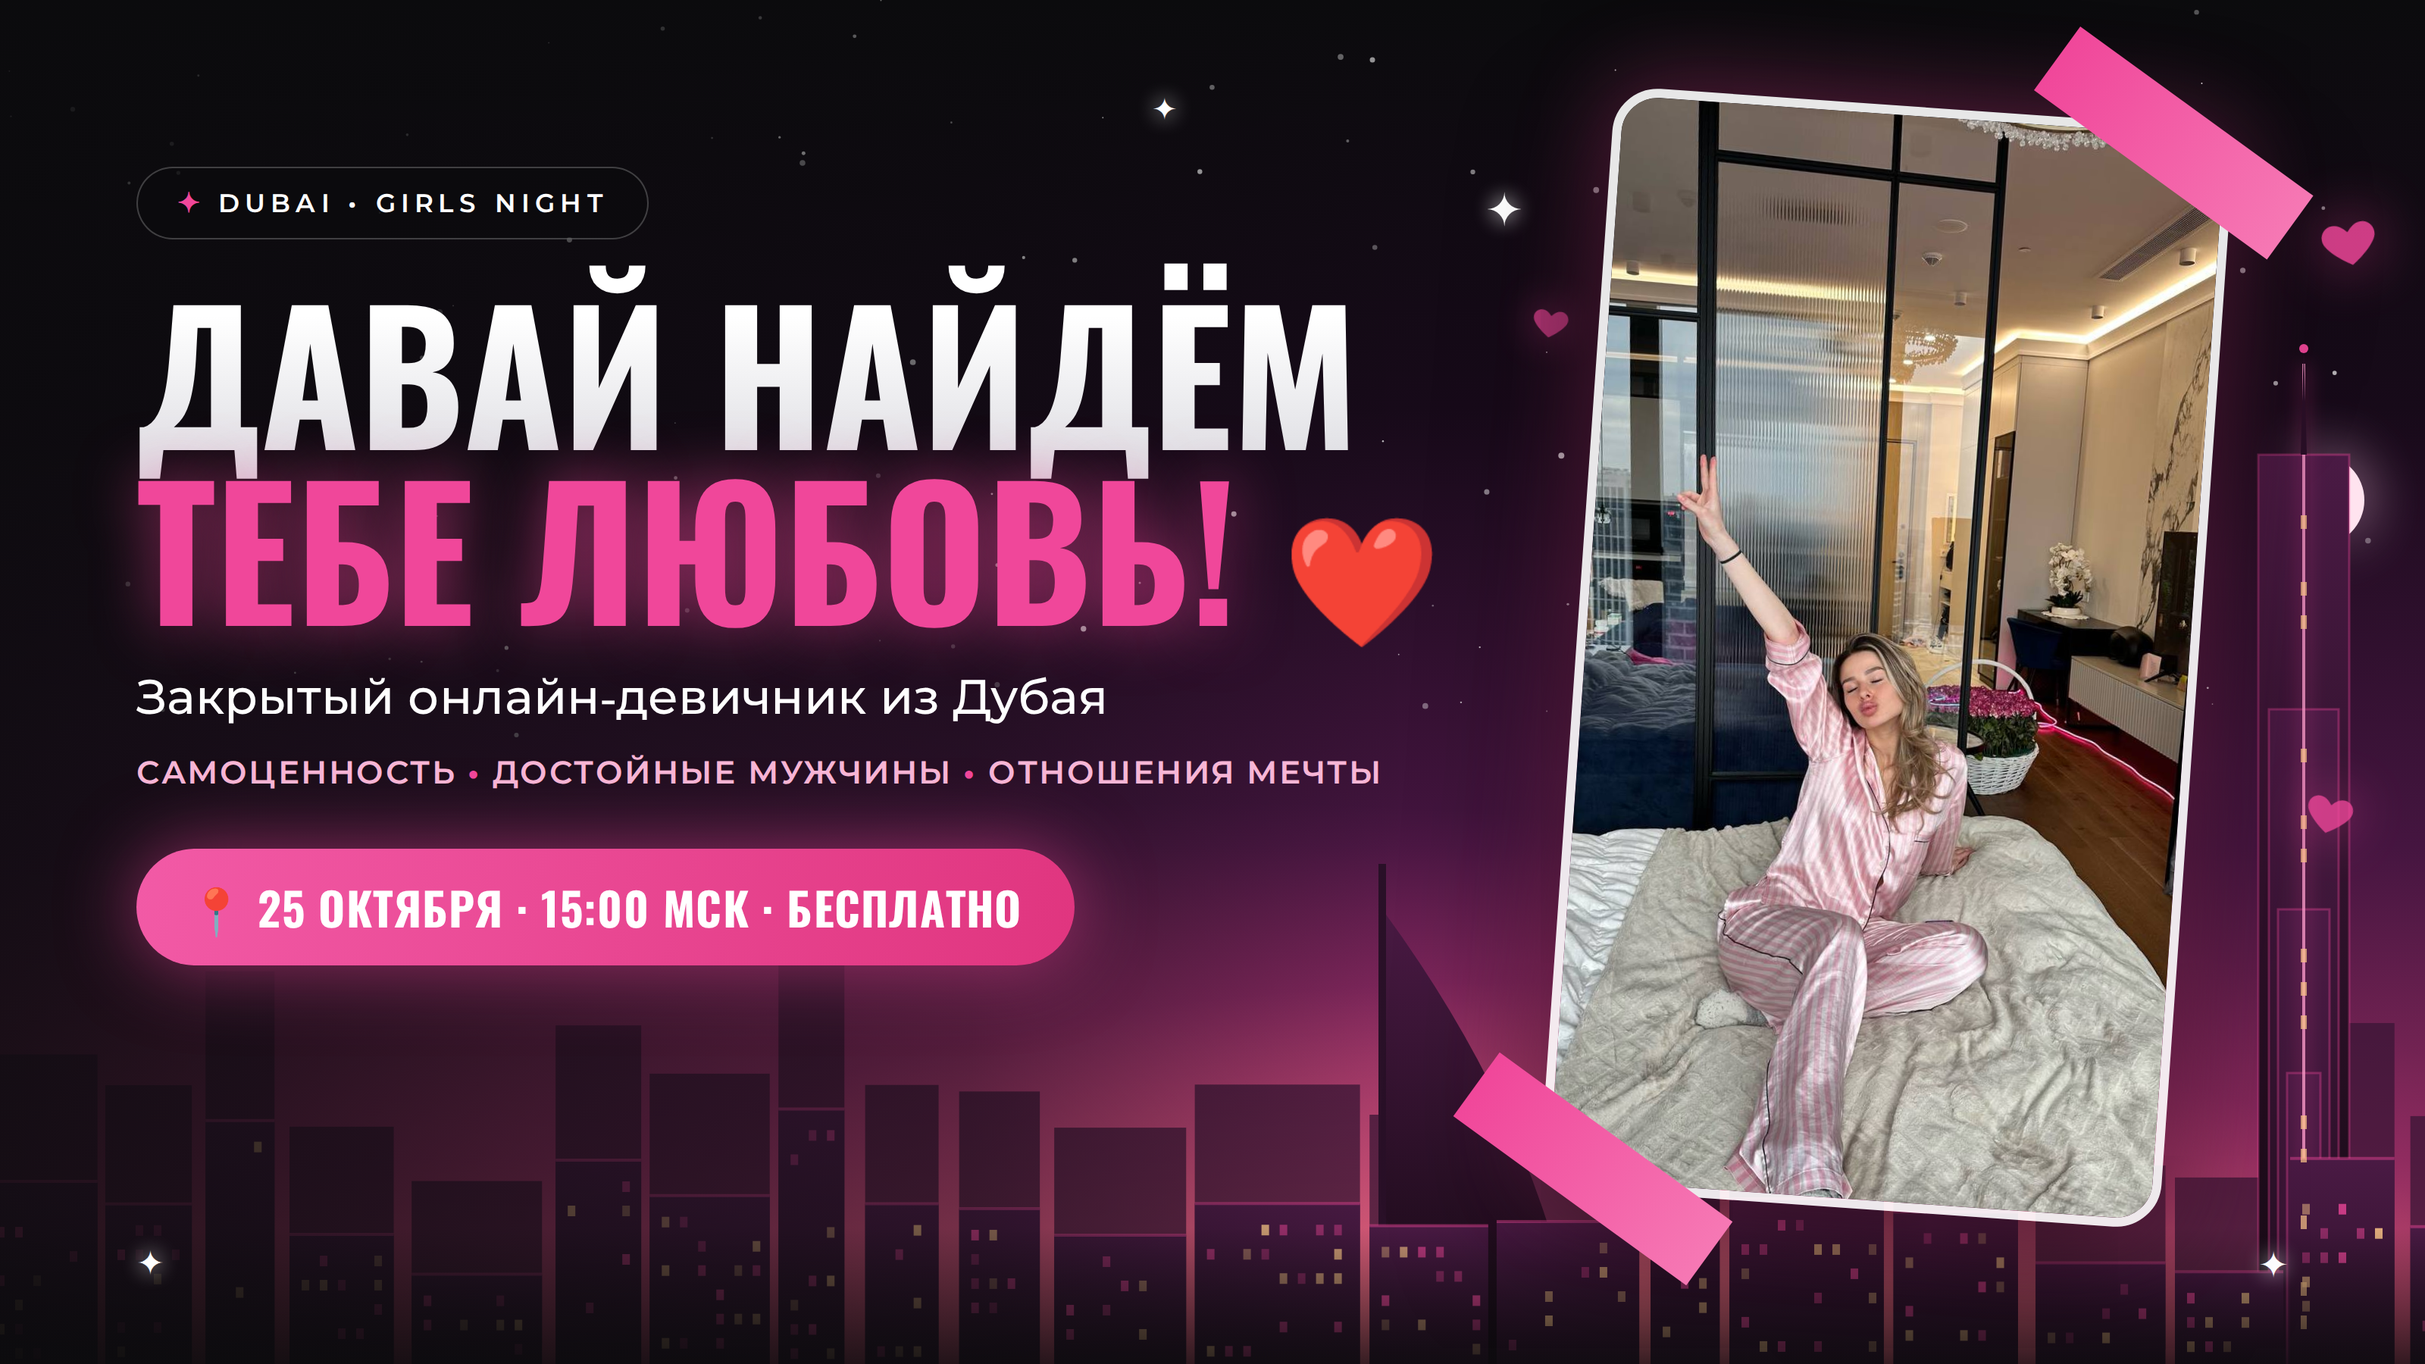
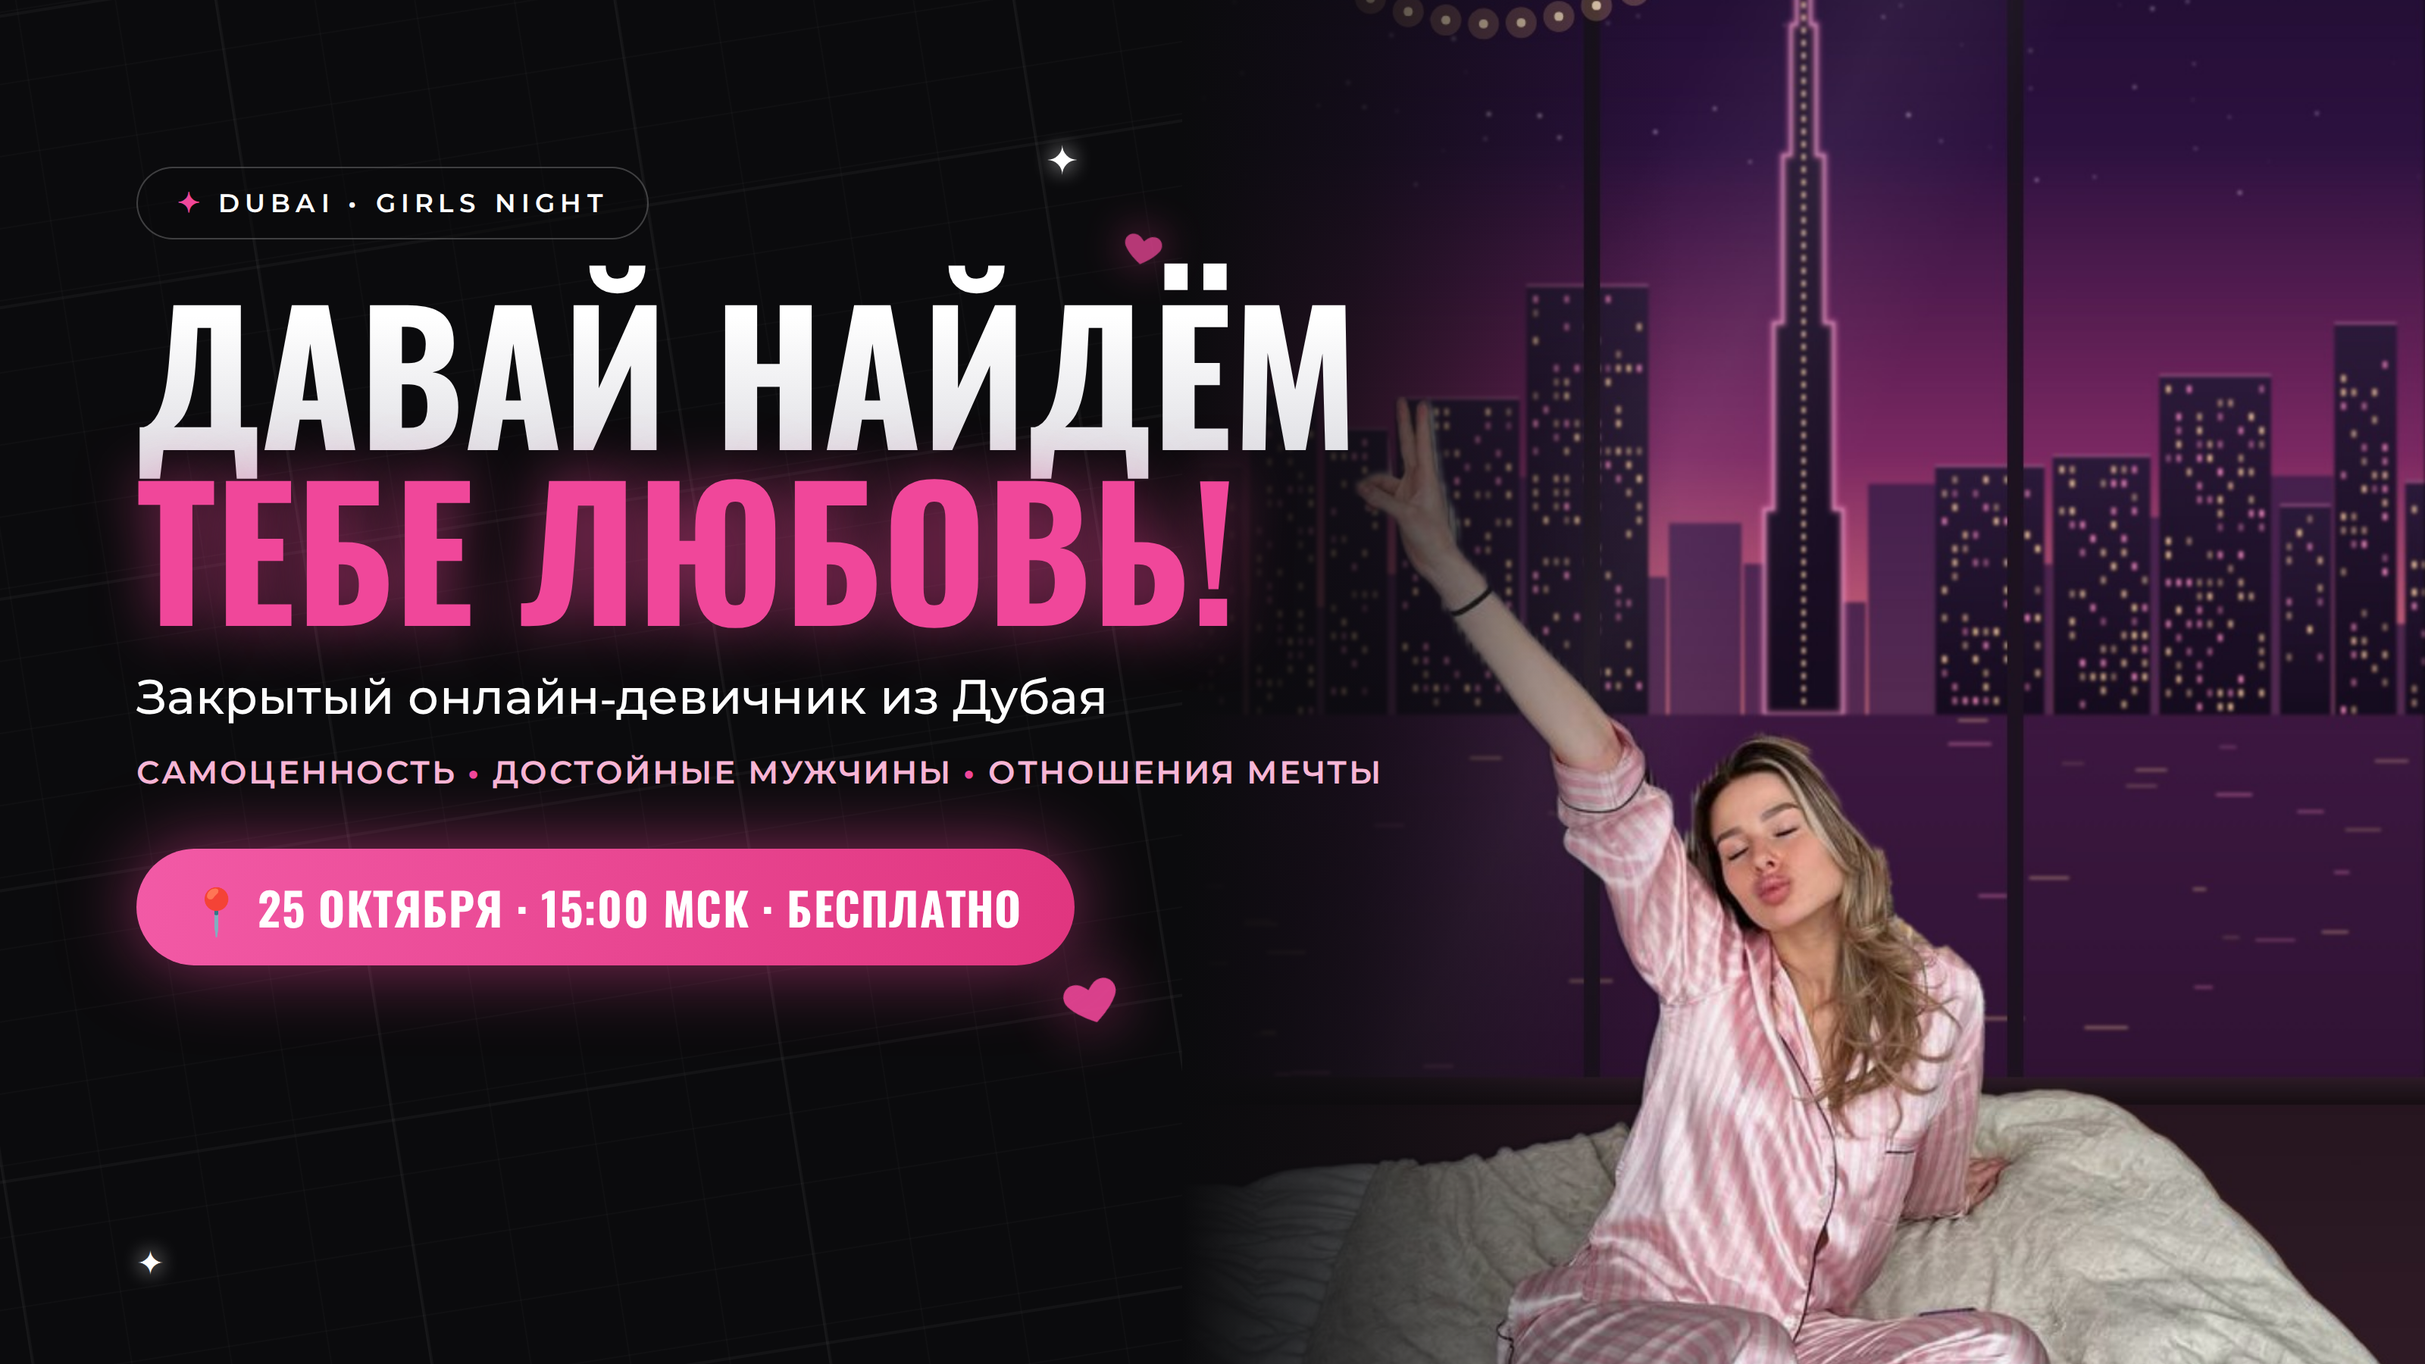
Recompose pajama photo with a Dubai night view and update covers
Claude-Session: https://claude.ai/code/session_01QvxPhZFmoV4wpS6odsdhe8

diff --git a/guides/src/scene.js b/guides/src/scene.js
@@ -1,0 +1,97 @@
+// Re-composes the pajama photo: person + bed in front of a panoramic window with night Dubai
+const { chromium } = require('playwright');
+const fs = require('fs');
+const path = require('path');
+const IMG = require('./lib').IMG;
+
+let seed = 11;
+const rnd = () => ((seed = (seed * 9301 + 49297) % 233280) / 233280);
+
+function city(W, H, hz) {
+  // hz = horizon y (water line)
+  seed = 11;
+  let s = `<svg width="${W}" height="${H}" viewBox="0 0 ${W} ${H}" style="position:absolute;left:0;top:0">
+  <defs>
+   <linearGradient id="sky" x1="0" y1="0" x2="0" y2="1">
+    <stop offset="0" stop-color="#120a22"/><stop offset=".45" stop-color="#2c1240"/><stop offset=".75" stop-color="#7a2a62"/><stop offset="1" stop-color="#e2777f"/></linearGradient>
+   <linearGradient id="b1" x1="0" y1="0" x2="0" y2="1"><stop offset="0" stop-color="#2a1a3a"/><stop offset="1" stop-color="#140c1e"/></linearGradient>
+   <linearGradient id="water" x1="0" y1="0" x2="0" y2="1"><stop offset="0" stop-color="#3a1840"/><stop offset="1" stop-color="#120a18"/></linearGradient>
+   <filter id="gl"><feGaussianBlur stdDeviation="2.2"/></filter>
+   <filter id="gl2"><feGaussianBlur stdDeviation="8"/></filter>
+  </defs>
+  <rect width="${W}" height="${hz}" fill="url(#sky)"/>`;
+  for (let i = 0; i < 140; i++) s += `<circle cx="${rnd() * W}" cy="${rnd() * hz * 0.5}" r="${rnd() * 1.4 + .4}" fill="#fff" opacity="${.3 + rnd() * .6}"/>`;
+  // moon
+  s += `<circle cx="${W * 0.8}" cy="${hz * 0.16}" r="34" fill="#ffe9f2" opacity=".95"/><circle cx="${W * 0.8}" cy="${hz * 0.16}" r="60" fill="#ffd0e6" opacity=".18" filter="url(#gl2)"/>`;
+  // far skyline
+  let x = -20;
+  while (x < W) { const w = 26 + rnd() * 50, h = 60 + rnd() * 170; s += `<rect x="${x}" y="${hz - h}" width="${w}" height="${h}" fill="#3a1f4a" opacity=".85"/>`; x += w + 2; }
+  // Burj Khalifa (tapered silhouette with glowing outline)
+  const bx = W * 0.5, bt = hz * 0.9, top = hz - bt;
+  const pts = [[-34, 0], [-34, .22], [-26, .22], [-26, .42], [-18, .42], [-18, .6], [-11, .6], [-11, .74], [-6, .74], [-6, .86], [-2, .86], [0, 1]];
+  const poly = [...pts.map(([dx, f]) => `${bx + dx},${hz - bt * f}`), ...pts.slice().reverse().map(([dx, f]) => `${bx - dx},${hz - bt * f}`)].join(' ');
+  s += `<polygon points="${poly}" fill="url(#b1)"/>`;
+  s += `<polygon points="${poly}" fill="none" stroke="#ff8cc6" stroke-width="5" opacity=".55" filter="url(#gl)"/>`;
+  s += `<polygon points="${poly}" fill="none" stroke="#ffb3d9" stroke-width="1.5" opacity=".8"/>`;
+  for (let y = top + bt * .1; y < hz - 6; y += 11) s += `<rect x="${bx - 1.5}" y="${y}" width="3" height="5" fill="#ffd9a8" opacity=".9"/>`;
+  s += `<circle cx="${bx}" cy="${top}" r="5" fill="#ff4f9f"/><circle cx="${bx}" cy="${top}" r="18" fill="#ff4f9f" opacity=".35" filter="url(#gl)"/>`;
+  // near towers
+  x = -10;
+  while (x < W) {
+    const w = 40 + rnd() * 70, h = 120 + rnd() * 260;
+    if (Math.abs(x + w / 2 - bx) < 90) { x += 80; continue; }
+    const y = hz - h;
+    s += `<rect x="${x}" y="${y}" width="${w}" height="${h}" fill="url(#b1)"/>`;
+    for (let wy = y + 10; wy < hz - 6; wy += 12) for (let wx = x + 6; wx < x + w - 6; wx += 9)
+      if (rnd() < .33) s += `<rect x="${wx}" y="${wy}" width="4" height="6" fill="${rnd() < .6 ? '#ffd29a' : '#ff8cc6'}" opacity="${.45 + rnd() * .5}"/>`;
+    s += `<rect x="${x}" y="${y}" width="${w}" height="2" fill="#ff8cc6" opacity=".55"/>`;
+    x += w + 3 + rnd() * 8;
+  }
+  // water + reflections
+  s += `<rect y="${hz}" width="${W}" height="${H - hz}" fill="url(#water)"/>`;
+  for (let i = 0; i < 90; i++) { const rx = rnd() * W, ry = hz + 4 + rnd() * (H - hz) * .5; s += `<rect x="${rx}" y="${ry}" width="${10 + rnd() * 30}" height="2" fill="${rnd() < .5 ? '#ffcf96' : '#ff8cc6'}" opacity="${.2 + rnd() * .4}"/>`; }
+  return s + '</svg>';
+}
+
+function scene(W, H) {
+  const k = W / 720; // photo is 720x1280
+  const hz = 600 * k;
+  return `<!doctype html><html><head><meta charset="utf-8"><style>
+  *{margin:0;padding:0}body{width:${W}px;height:${H}px;overflow:hidden;background:#0B0B0D}
+  .s{position:relative;width:${W}px;height:${H}px;overflow:hidden}
+  </style></head><body><div class="s" id="s">
+  <div style="position:absolute;inset:0;filter:blur(1.6px)">${city(W, H, hz)}</div>
+  <!-- window frame -->
+  <div style="position:absolute;inset:0;background:
+     linear-gradient(90deg,transparent ${W * .33 - 7}px,#1b1320 ${W * .33 - 7}px,#1b1320 ${W * .33 + 7}px,transparent ${W * .33 + 7}px,transparent ${W * .67 - 7}px,#1b1320 ${W * .67 - 7}px,#1b1320 ${W * .67 + 7}px,transparent ${W * .67 + 7}px)"></div>
+  <div style="position:absolute;left:0;right:0;top:0;height:${26 * k}px;background:#1b1320"></div>
+  <!-- glass reflection -->
+  <div style="position:absolute;inset:0;background:linear-gradient(115deg,rgba(255,255,255,0) 30%,rgba(255,255,255,.06) 38%,rgba(255,255,255,0) 46%)"></div>
+  <!-- warm room light from below -->
+  <div style="position:absolute;left:0;right:0;bottom:0;height:${H * .55}px;background:radial-gradient(ellipse 70% 60% at 50% 100%,rgba(255,170,150,.35),rgba(255,170,150,0) 70%)"></div>
+  <!-- fairy lights garland -->
+  <svg width="${W}" height="${H}" style="position:absolute;left:0;top:0">
+   <path d="M 0 ${120 * k} Q ${W * .25} ${200 * k} ${W * .5} ${130 * k} T ${W} ${150 * k}" stroke="#3a2a30" stroke-width="2" fill="none"/>
+   ${Array.from({ length: 34 }, (_, i) => { const t = i / 33; const x = t * W; const y = (t < .5 ? 120 + (200 - 120) * Math.sin(t * 2 * Math.PI) * .5 + 40 * Math.sin(t * Math.PI * 2) : 140 + 20 * Math.sin(t * Math.PI * 4)) * k; return `<circle cx="${x}" cy="${y}" r="${2.6 * k}" fill="#fff1d6"/><circle cx="${x}" cy="${y}" r="${9 * k}" fill="#ffc78a" opacity=".28"/>`; }).join('')}
+  </svg>
+  <!-- window sill behind bed -->
+  <div style="position:absolute;left:0;right:0;top:${hz + 210 * k}px;height:${16 * k}px;background:linear-gradient(180deg,#2a1d26,#140e12)"></div>
+  <div style="position:absolute;left:0;right:0;top:${hz + 226 * k}px;bottom:0;background:linear-gradient(180deg,#24161f,#3a2630)"></div>
+  <!-- person + bed -->
+  <img src="file://${IMG}/pajama_cut.png" style="position:absolute;left:0;top:0;width:${W}px;height:${H}px;filter:saturate(1.05) brightness(.97)">
+  <!-- pink rim light / grade -->
+  <div style="position:absolute;inset:0;background:linear-gradient(180deg,rgba(120,30,90,.10),rgba(255,120,170,.06));mix-blend-mode:soft-light"></div>
+  </div></body></html>`;
+}
+
+(async () => {
+  const b = await chromium.launch();
+  const W = 1080, H = 1920;
+  const p = await b.newPage({ viewport: { width: W, height: H } });
+  const f = path.resolve(__dirname, '../preview/scene.html');
+  fs.writeFileSync(f, scene(W, H));
+  await p.goto('file://' + f); await p.waitForTimeout(500);
+  await (await p.$('#s')).screenshot({ path: `${IMG}/pajama_dubai.jpg`, type: 'jpeg', quality: 92 });
+  await (await p.$('#s')).screenshot({ path: path.resolve(__dirname, '../preview/scene_prev.jpg'), type: 'jpeg', quality: 60 });
+  await b.close();
+})();

diff --git a/guides/src/cover.js b/guides/src/cover.js
@@ -73,36 +73,34 @@ function photo(W, H, rot) {
     <img src="file://${IMG}/pajama.jpg" style="width:100%;height:100%;object-fit:cover;object-position:50% 40%"></div></div>`;
 }
 
-const textBlock = (scale = 1) => `
+const textBlock = (scale = 1, heart = true) => `
   <span class="tag" style="font-size:${17 * scale}px;padding:${12 * scale}px ${26 * scale}px;background:rgba(11,11,13,.55)"><b>✦</b>Dubai • Girls night</span>
   <div style="font:700 ${118 * scale}px/0.98 Osw;text-transform:uppercase;margin-top:${28 * scale}px">
    <span style="background:linear-gradient(180deg,#fff 30%,#d6d6dc);-webkit-background-clip:text;color:transparent">Давай найдём</span><br>
-   <span style="color:var(--pink);text-shadow:0 0 40px rgba(240,71,154,.6)">тебе любовь!</span> <span style="font-size:${84 * scale}px">❤</span></div>
+   <span style="color:var(--pink);text-shadow:0 0 40px rgba(240,71,154,.6)">тебе любовь!</span> ${heart ? `<span style="font-size:${84 * scale}px">❤</span>` : ''}</div>
   <div style="font:500 ${32 * scale}px/1.3 Mont;color:#fff;margin-top:${22 * scale}px">Закрытый онлайн-девичник из Дубая</div>
   <div style="font:600 ${21 * scale}px Mont;letter-spacing:.06em;color:#F7B6D6;margin-top:${16 * scale}px;text-transform:uppercase">Самоценность <b style="color:var(--pink)">•</b> Достойные мужчины <b style="color:var(--pink)">•</b> Отношения мечты</div>
   <div class="btn" style="margin-top:${38 * scale}px;font-size:${30 * scale}px;padding:${16 * scale}px ${34 * scale}px;box-shadow:0 0 50px rgba(240,71,154,.55)">📍 25 октября · 15:00 МСК · бесплатно</div>`;
 
-const H1 = `<section class="slide" style="width:1600px;height:900px;padding:0;${sky}">
- ${stars(1600, 900, 120)}
- ${moon(1500, 300, 60)}
- ${skyline(1600, 900, 600, 0.95, 0.57)}
- <div style="position:absolute;left:0;right:0;bottom:0;height:90px;background:linear-gradient(180deg,rgba(11,11,13,0),rgba(11,11,13,.8))"></div>
- <div style="position:absolute;inset:0;background:linear-gradient(90deg,rgba(11,11,13,.85) 0%,rgba(11,11,13,.45) 40%,rgba(11,11,13,0) 58%)"></div>
- ${hearts([[1060, 610, 46, .9, -15], [1520, 520, 34, .8, 12], [1010, 200, 26, .7, 8], [1530, 140, 40, .85, -10]])}
- ${spark(980, 120, 30)}${spark(1490, 820, 24)}${spark(90, 820, 22)}${spark(760, 60, 20)}
- <div style="position:absolute;right:150px;top:70px;z-index:3">${photo(410, 728, 4)}</div>
- <div style="position:absolute;left:90px;top:110px;width:900px;z-index:4">${textBlock(1)}</div>
+const PH = `file://${IMG}/pajama_dubai.jpg`;
+const H1 = `<section class="slide" style="width:1600px;height:900px;padding:0;background:#0B0B0D">
+ <div class="grid"></div>
+ <div style="position:absolute;right:0;top:0;width:820px;height:900px">
+  <img src="${PH}" style="width:100%;height:100%;object-fit:cover;object-position:50% 38%">
+  <div style="position:absolute;inset:0;background:linear-gradient(90deg,#0B0B0D 0%,rgba(11,11,13,.75) 14%,rgba(11,11,13,0) 40%)"></div>
+ </div>
+ ${hearts([[700, 640, 40, .9, -15], [740, 150, 28, .75, 10]])}
+ ${spark(690, 90, 26)}${spark(90, 820, 22)}
+ <div style="position:absolute;left:90px;top:110px;width:860px;z-index:4">${textBlock(1, false)}</div>
 </section>`;
 
-const V1 = `<section class="slide" style="width:1080px;height:1920px;padding:0;${sky}">
- ${stars(1080, 1920, 160)}
- ${moon(820, 120, 80)}
- ${skyline(1080, 1920, 820, 0.86, 0.12)}
- <div style="position:absolute;left:0;right:0;bottom:0;height:880px;background:linear-gradient(180deg,rgba(11,11,13,0),rgba(11,11,13,.7) 30%,rgba(11,11,13,.55) 60%,rgba(11,11,13,.2) 100%)"></div>
- ${hearts([[120, 300, 50, .9, -15], [900, 760, 42, .85, 12], [160, 980, 30, .7, 8], [880, 260, 34, .8, -10]])}
- ${spark(100, 150, 32)}${spark(960, 560, 26)}${spark(80, 700, 22)}
- <div style="position:absolute;left:50%;top:170px;transform:translateX(-50%);z-index:3">${photo(470, 836, -3)}</div>
- <div style="position:absolute;left:80px;right:80px;top:1110px;z-index:4">${textBlock(0.9)}</div>
+const V1 = `<section class="slide" style="width:1080px;height:1920px;padding:0;background:#0B0B0D">
+ <div style="position:absolute;left:0;right:0;top:0;height:1920px">
+  <img src="${PH}" style="width:100%;height:100%;object-fit:cover;object-position:50% 50%">
+  <div style="position:absolute;left:0;right:0;bottom:0;height:720px;background:linear-gradient(180deg,rgba(11,11,13,0),rgba(11,11,13,.82) 38%,rgba(11,11,13,.92))"></div>
+ </div>
+ ${hearts([[90, 1250, 44, .9, -15], [950, 1230, 36, .85, 12]])}
+ <div style="position:absolute;left:80px;right:80px;top:1340px;z-index:4">${textBlock(0.9)}</div>
 </section>`;
 
 (async () => {

diff --git a/guides/src/gc.py b/guides/src/gc.py
@@ -1,0 +1,35 @@
+import numpy as np, cv2
+img = cv2.imread('img/pajama.jpg'); H, W = img.shape[:2]
+m = cv2.imread('mask.png', 0).astype(np.float32) / 255
+gc = np.full((H, W), cv2.GC_PR_BGD, np.uint8)
+gc[m > 0.35] = cv2.GC_PR_FGD
+gc[m > 0.85] = cv2.GC_FGD
+# bed: polygon of quilt as probable fg
+bed = np.array([[0, 880], [120, 850], [260, 845], [480, 815], [560, 830], [640, 900], [720, 1010], [720, 1280], [0, 1280]], np.int32)
+bm = np.zeros((H, W), np.uint8); cv2.fillPoly(bm, [bed], 1)
+gc[(bm == 1) & (gc == cv2.GC_PR_BGD)] = cv2.GC_PR_FGD
+gc[1100:, :][bm[1100:, :] == 1] = cv2.GC_FGD
+gc[:380, :] = cv2.GC_BGD
+bgd = np.zeros((1, 65)); fgd = np.zeros((1, 65))
+cv2.grabCut(img, gc, None, bgd, fgd, 6, cv2.GC_INIT_WITH_MASK)
+a = np.where((gc == 1) | (gc == 3), 1.0, 0.0).astype(np.float32)
+a = cv2.morphologyEx(a, cv2.MORPH_OPEN, np.ones((5, 5), np.uint8))
+# keep largest component
+n, lab, st, _ = cv2.connectedComponentsWithStats((a > .5).astype(np.uint8))
+k = 1 + np.argmax(st[1:, cv2.CC_STAT_AREA]); a = (lab == k).astype(np.float32)
+a = cv2.GaussianBlur(a, (7, 7), 0)
+rgba = np.dstack([img, (a * 255).astype(np.uint8)])
+cv2.imwrite('img/pajama_cut.png', rgba)
+prev = img.copy(); prev[a < .5] = (prev[a < .5] * 0.2 + np.array([180, 60, 240]) * 0.8).astype(np.uint8)
+cv2.imwrite('cut_prev.jpg', prev)
+# remove dark glass-frame strip near the raised hand
+g = cv2.cvtColor(img, cv2.COLOR_BGR2GRAY)
+reg = np.zeros((H, W), bool); reg[380:520, 100:145] = True
+a[reg & (g < 70)] = 0
+a = cv2.GaussianBlur(a, (3, 3), 0)
+cv2.imwrite('img/pajama_cut.png', np.dstack([img, (a * 255).astype(np.uint8)]))
+# drop the flower basket behind her (keeps person via ML mask)
+reg = np.zeros((H, W), bool); reg[650:805, 400:570] = True
+a[reg & (m < 0.55)] = 0
+a = cv2.GaussianBlur(a, (3, 3), 0)
+cv2.imwrite('img/pajama_cut.png', np.dstack([img, (a * 255).astype(np.uint8)]))

diff --git a/guides/src/seg2.py b/guides/src/seg2.py
@@ -1,0 +1,14 @@
+import sys, numpy as np, cv2
+from ai_edge_litert.interpreter import Interpreter
+src, out = sys.argv[1], sys.argv[2]
+it = Interpreter(model_path='seg.tflite'); it.allocate_tensors()
+i = it.get_input_details()[0]; o = it.get_output_details()[0]
+img = cv2.cvtColor(cv2.imread(src), cv2.COLOR_BGR2RGB); H, W = img.shape[:2]
+x = cv2.resize(img, (256, 256)).astype(np.float32) / 255.0
+it.set_tensor(i['index'], x[None]); it.invoke()
+y = it.get_tensor(o['index'])[0]  # 256x256x6
+print(y.shape, y.min(), y.max())
+e = np.exp(y - y.max(-1, keepdims=True)); p = e / e.sum(-1, keepdims=True)
+fg = 1 - p[..., 0]
+fg = cv2.resize(fg, (W, H), interpolation=cv2.INTER_CUBIC)
+cv2.imwrite(out, np.clip(fg * 255, 0, 255).astype(np.uint8))
